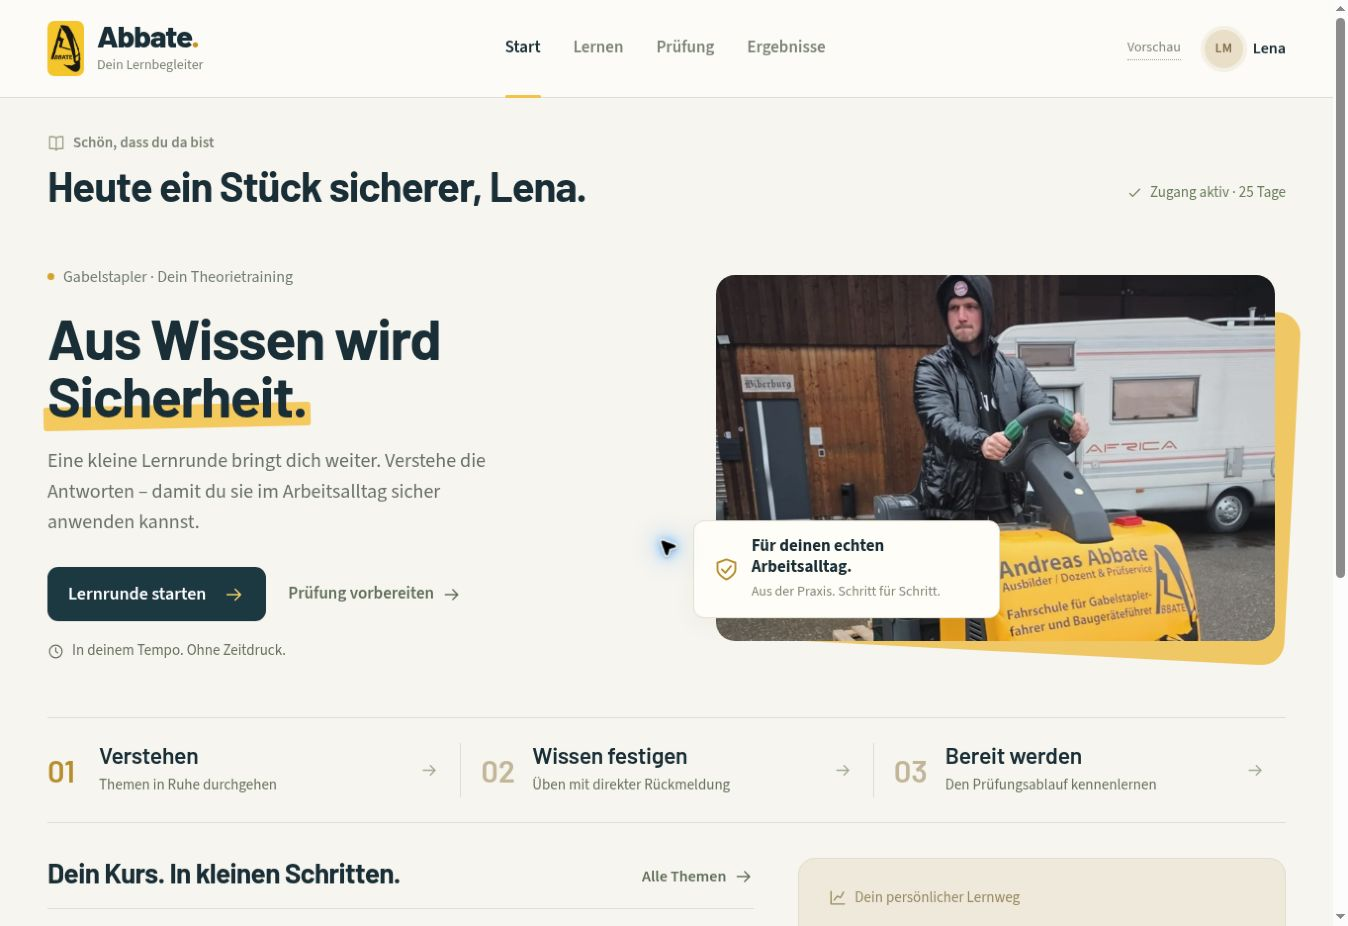
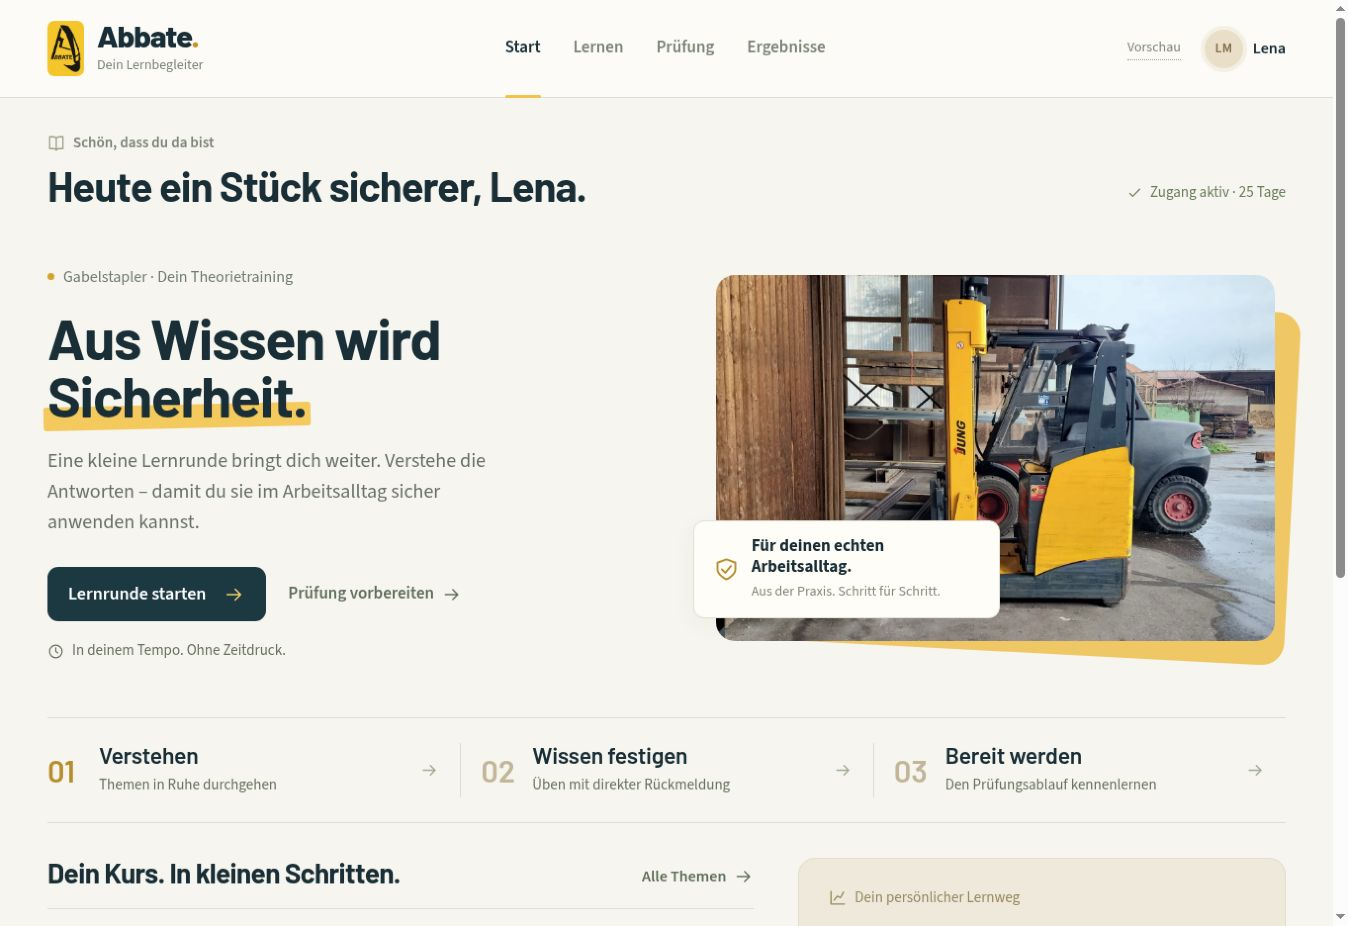
Replace hero portrait with original forklift photo from the school website

Changed region(s): [[0.5297, 0.2721, 0.9659, 0.6955], [0.4674, 0.5745, 0.5297, 0.6048]]

diff --git a/dist/app.js b/dist/app.js
@@ -65,11 +65,11 @@ function navigation() {
   $('#profile-name').textContent=student().name.split(' ')[0]; $('#avatar').textContent=initials(student().name);
 }
 function topicRows() { return TOPICS.map(t=>`<button class="topic-row" data-action="topic" data-topic="${t.id}"><span class="topic-symbol ${t.color}">${icon(t.icon)}</span><span><strong class="topic-title">${t.name}</strong><small>${t.short}</small></span>${icon('arrow')}</button>`).join(''); }
-function installStrip() { return isAppMode()?'':`<aside class="install-strip"><img src="./icon-192.png?v=5" alt="" width="47" height="47"><div><strong>Dein Lernbegleiter. Auch unterwegs.</strong><p>Einmal hinzufügen, direkt vom App-Symbol starten.</p></div><button class="secondary" data-action="install">App hinzufügen ${icon('plus')}</button></aside>`; }
+function installStrip() { return isAppMode()?'':`<aside class="install-strip"><img src="./icon-192.png?v=6" alt="" width="47" height="47"><div><strong>Dein Lernbegleiter. Auch unterwegs.</strong><p>Einmal hinzufügen, direkt vom App-Symbol starten.</p></div><button class="secondary" data-action="install">App hinzufügen ${icon('plus')}</button></aside>`; }
 function home() {
   const name=esc(student().name.split(' ')[0]), learned=mastered().length, total=QUESTIONS.length, ok=active(student());
   return heading('Schön, dass du da bist',`Heute ein Stück sicherer, ${name}.`,'',accessLine())+`
-  <section class="home-hero"><div class="hero-text"><div class="course-label"><span></span>Gabelstapler · Dein Theorietraining</div><h2>Aus Wissen wird<br><span class="marker">Sicherheit.</span></h2><p>Eine kleine Lernrunde bringt dich weiter. Verstehe die Antworten – damit du sie im Arbeitsalltag sicher anwenden kannst.</p><div class="hero-actions"><button class="primary" data-action="${ok?'start-learn':'access'}">${ok?(learned?'Weiterlernen':'Lernrunde starten'):'Zugang ansehen'} ${icon(ok?'arrow':'lock')}</button><a class="text-link" href="#pruefung">Prüfung vorbereiten ${icon('arrow')}</a></div><div class="hero-proof">${icon('clock')}In deinem Tempo. Ohne Zeitdruck.</div></div><div class="hero-photo"><img src="./assets/praxis-stapler.webp" alt="Gabelstaplerschulung am Fahrzeug mit Abbate-Beschriftung" width="900" height="1200"><div class="photo-caption">${icon('shield')}<div><strong>Für deinen echten Arbeitsalltag.</strong><small>Aus der Praxis. Schritt für Schritt.</small></div></div></div></section>
+  <section class="home-hero"><div class="hero-text"><div class="course-label"><span></span>Gabelstapler · Dein Theorietraining</div><h2>Aus Wissen wird<br><span class="marker">Sicherheit.</span></h2><p>Eine kleine Lernrunde bringt dich weiter. Verstehe die Antworten – damit du sie im Arbeitsalltag sicher anwenden kannst.</p><div class="hero-actions"><button class="primary" data-action="${ok?'start-learn':'access'}">${ok?(learned?'Weiterlernen':'Lernrunde starten'):'Zugang ansehen'} ${icon(ok?'arrow':'lock')}</button><a class="text-link" href="#pruefung">Prüfung vorbereiten ${icon('arrow')}</a></div><div class="hero-proof">${icon('clock')}In deinem Tempo. Ohne Zeitdruck.</div></div><div class="hero-photo"><img src="./assets/stapler-schulung.webp" alt="Gelbes Flurförderzeug und Gabelstapler auf dem Schulungsgelände" width="1920" height="1080"><div class="photo-caption">${icon('shield')}<div><strong>Für deinen echten Arbeitsalltag.</strong><small>Aus der Praxis. Schritt für Schritt.</small></div></div></div></section>
   <section class="learning-route" aria-label="Dein Lernweg"><a class="route-step" href="#lernen"><span class="route-number">01</span><span><strong>Verstehen</strong><small>Themen in Ruhe durchgehen</small></span>${icon('arrow')}</a><button class="route-step" data-action="start-learn"><span class="route-number">02</span><span><strong>Wissen festigen</strong><small>Üben mit direkter Rückmeldung</small></span>${icon('arrow')}</button><a class="route-step" href="#pruefung"><span class="route-number">03</span><span><strong>Bereit werden</strong><small>Den Prüfungsablauf kennenlernen</small></span>${icon('arrow')}</a></section>
   <div class="home-lower"><section><div class="section-topline"><h2>Dein Kurs. In kleinen Schritten.</h2><a class="text-link" href="#lernen">Alle Themen ${icon('arrow')}</a></div><div class="topic-list">${topicRows()}</div></section><aside class="progress-note"><div class="note-label">${icon('chart')}Dein persönlicher Lernweg</div><h3>${learned?'Das wächst mit jeder Runde.':'Du musst nicht alles auf einmal können.'}</h3><p>${learned?`${learned} von ${total} Beispielfragen hast du bereits richtig beantwortet. Wiederholen hilft, dein Wissen zu festigen.`:'Fang mit einer kurzen Runde an. Zu jeder Antwort bekommst du eine Erklärung, die dich weiterbringt.'}</p><div class="progress-meter" role="progressbar" aria-label="Richtig beantwortete Beispielfragen" aria-valuemin="0" aria-valuemax="${total}" aria-valuenow="${learned}"><span style="width:${learned/total*100}%"></span></div><div class="progress-count">${learned} von ${total} Fragen richtig beantwortet</div><a class="text-link" href="#ergebnisse">Deine bisherigen Runden ${icon('arrow')}</a></aside></div>${installStrip()}`;
 }
@@ -172,7 +172,7 @@ if('serviceWorker' in navigator&&/^https:/.test(location.protocol))navigator.ser
 route=location.hash.slice(1)||'start';if(route==='verlauf')route='ergebnisse';if(!Object.hasOwn(routeMap,route)||route==='uebung'||route==='ergebnis')route='start';save();render();
 
 function install(platform=installPlatform()){
-if(isAppMode()){modal('Du nutzt bereits die App-Ansicht',`<div class="install-app-identity"><img src="./icon-192.png?v=5" alt="Abbate App-Symbol"><div><strong>Andreas Abbate</strong><span>Lern- & Prüfungsapp</span></div><span class="app-mode-check">${icon('check')}</span></div><p>Dein Lernbereich ist bereits in einem eigenen App-Fenster geöffnet. Du kannst ihn jederzeit über sein App-Symbol starten.</p><button class="primary" data-action="close-modal">Weiterlernen ${icon('arrow')}</button>`);return;}
+if(isAppMode()){modal('Du nutzt bereits die App-Ansicht',`<div class="install-app-identity"><img src="./icon-192.png?v=6" alt="Abbate App-Symbol"><div><strong>Andreas Abbate</strong><span>Lern- & Prüfungsapp</span></div><span class="app-mode-check">${icon('check')}</span></div><p>Dein Lernbereich ist bereits in einem eigenen App-Fenster geöffnet. Du kannst ihn jederzeit über sein App-Symbol starten.</p><button class="primary" data-action="close-modal">Weiterlernen ${icon('arrow')}</button>`);return;}
 const guides={
 windows:[['App-Link in Chrome oder Edge öffnen','Öffne den Lernbereich in einem eigenen Browser-Tab.'],['Installation im Browser auswählen','Nutze das Installieren-Symbol in der Adressleiste, falls es angezeigt wird. Alternativ: In Chrome im Drei-Punkte-Menü nach „Installieren“ bzw. unter „Streamen, speichern und teilen“ suchen. In Edge findest du die Funktion meist unter „Apps“. Die Bezeichnung hängt von der Version ab.'],['Als eigene App starten','Bestätige den Installationsdialog. Danach findest du die App über die Windows-Suche bzw. das Startmenü. Wähle angebotene Optionen für Desktop-Verknüpfung oder Taskleiste. Die App kann in einem eigenen Fenster starten.']],
 mac:[['Lernbereich im Browser öffnen','Für Safari-Web-Apps wird macOS Sonoma 14 oder neuer benötigt. Alternativ ist die Installation mit Chrome oder Edge möglich.'],['Zum Dock hinzufügen','In Safari: „Ablage“ → „Zum Dock hinzufügen“. Alternativ findest du „Zum Dock hinzufügen“ im Teilen-Menü. In Chrome oder Edge nutze das Installieren-Symbol oder die App-Installation im Browsermenü.'],['Über das App-Symbol öffnen','Bestätige den Namen mit „Hinzufügen“. Safari speichert die App im Programme-Ordner deines Benutzerordners; du kannst sie über Dock oder Spotlight starten.']],
@@ -181,5 +181,5 @@ android:[['Link in Chrome öffnen','Öffne den Lernbereich in Chrome auf deinem 
 };
 if(!Object.hasOwn(guides,platform))platform=installPlatform();
 const platforms=[['windows','Windows'],['mac','Mac'],['iphone','iPhone'],['android','Android']];
-modal('Dein Lernbereich als App',`<div class="install-app-identity"><img src="./icon-192.png?v=5" alt="Abbate App-Symbol"><div><strong>Andreas Abbate</strong><span>Lern- & Prüfungsapp</span><small>Auf dem Computer und unterwegs.</small></div></div><div class="install-benefits"><span>${icon('check')} Eigenes App-Symbol</span><span>${icon('check')} Eigene App-Ansicht</span></div><p>Wähle dein Gerät. Du kannst den Lernbereich im Browser nutzen oder als Web-App hinzufügen, sofern dein Gerät und Browser die Installation unterstützen.</p><div class="modal-tabs platform-tabs" aria-label="Installationsanleitung nach Gerät">${platforms.map(([key,label])=>`<button class="${key===platform?'active':''}" data-action="install-tab" data-platform="${key}" aria-pressed="${key===platform}">${label}</button>`).join('')}</div><div class="install-steps">${guides[platform].map(([t,d],i)=>`<div class="install-step"><span>${i+1}</span><div><strong>${t}</strong><p>${d}</p></div></div>`).join('')}</div>${platform!=='iphone'&&platform===installPlatform()&&deferredInstall?'<button class="primary" data-action="native-install">Auf diesem Gerät installieren '+icon('plus')+'</button>':''}<div class="install-preview-note">${icon('lock')}<span>Frei zugängliche Vorführversion mit Beispieldaten. Änderungen bleiben nur in deinem Browser. Echte Schülerkonten, Zahlungen und zentrale Zugriffssperren sind noch nicht eingerichtet. Die Installation ist auf den jeweiligen Geräten zu prüfen.</span></div>`);
+modal('Dein Lernbereich als App',`<div class="install-app-identity"><img src="./icon-192.png?v=6" alt="Abbate App-Symbol"><div><strong>Andreas Abbate</strong><span>Lern- & Prüfungsapp</span><small>Auf dem Computer und unterwegs.</small></div></div><div class="install-benefits"><span>${icon('check')} Eigenes App-Symbol</span><span>${icon('check')} Eigene App-Ansicht</span></div><p>Wähle dein Gerät. Du kannst den Lernbereich im Browser nutzen oder als Web-App hinzufügen, sofern dein Gerät und Browser die Installation unterstützen.</p><div class="modal-tabs platform-tabs" aria-label="Installationsanleitung nach Gerät">${platforms.map(([key,label])=>`<button class="${key===platform?'active':''}" data-action="install-tab" data-platform="${key}" aria-pressed="${key===platform}">${label}</button>`).join('')}</div><div class="install-steps">${guides[platform].map(([t,d],i)=>`<div class="install-step"><span>${i+1}</span><div><strong>${t}</strong><p>${d}</p></div></div>`).join('')}</div>${platform!=='iphone'&&platform===installPlatform()&&deferredInstall?'<button class="primary" data-action="native-install">Auf diesem Gerät installieren '+icon('plus')+'</button>':''}<div class="install-preview-note">${icon('lock')}<span>Frei zugängliche Vorführversion mit Beispieldaten. Änderungen bleiben nur in deinem Browser. Echte Schülerkonten, Zahlungen und zentrale Zugriffssperren sind noch nicht eingerichtet. Die Installation ist auf den jeweiligen Geräten zu prüfen.</span></div>`);
 } 

diff --git a/dist/sw.js b/dist/sw.js
@@ -1,7 +1,7 @@
 'use strict';
 // Demo assets only. No authenticated responses or student records are cached.
-const CACHE='abbate-learning-v5';
-const ASSETS=["./styles.css?v=5","./app.js?v=5","./manifest.webmanifest?v=5","./icon-192.png?v=5","./icon-512.png?v=5","./icon-maskable.png?v=5","./apple-touch-icon.png?v=5","./favicon.png?v=5","./assets/logo-abbate.png","./assets/praxis-stapler.webp","./assets/theorie-schulung.webp","./assets/fonts/barlow-600.woff","./assets/fonts/barlow-700.woff","./assets/fonts/barlow-800.woff","./assets/fonts/source-sans-400.woff","./assets/fonts/source-sans-600.woff","./assets/fonts/source-sans-700.woff"];
+const CACHE='abbate-learning-v6';
+const ASSETS=["./styles.css?v=6","./app.js?v=6","./manifest.webmanifest?v=6","./icon-192.png?v=6","./icon-512.png?v=6","./icon-maskable.png?v=6","./apple-touch-icon.png?v=6","./favicon.png?v=6","./assets/logo-abbate.png","./assets/stapler-schulung.webp","./assets/theorie-schulung.webp","./assets/fonts/barlow-600.woff","./assets/fonts/barlow-700.woff","./assets/fonts/barlow-800.woff","./assets/fonts/source-sans-400.woff","./assets/fonts/source-sans-600.woff","./assets/fonts/source-sans-700.woff"];
 self.addEventListener('install',e=>{e.waitUntil(caches.open(CACHE).then(c=>c.addAll(ASSETS)));self.skipWaiting()});
 self.addEventListener('activate',e=>{e.waitUntil(caches.keys().then(keys=>Promise.all(keys.filter(k=>(k.startsWith('andreas-demo-shell-')||k.startsWith('abbate-learning-'))&&k!==CACHE).map(k=>caches.delete(k)))).then(()=>self.clients.claim()))});
 self.addEventListener('fetch',e=>{if(e.request.method!=='GET'||e.request.mode==='navigate')return;const url=new URL(e.request.url);if(url.origin!==self.location.origin||!ASSETS.some(a=>new URL(a,self.registration.scope).pathname===url.pathname))return;e.respondWith(fetch(e.request).catch(()=>caches.match(e.request)))});

diff --git a/dist/index.html b/dist/index.html
@@ -4,9 +4,9 @@
 <meta name="theme-color" content="#f7f5ef"><meta name="apple-mobile-web-app-capable" content="yes"><meta name="mobile-web-app-capable" content="yes"><meta name="apple-mobile-web-app-status-bar-style" content="default"><meta name="apple-mobile-web-app-title" content="Abbate Lernen">
 <meta name="description" content="Dein Lernbegleiter für die Gabelstapler-Theorie: in kleinen Schritten lernen, Wissen festigen und den Prüfungsablauf kennenlernen.">
 <title>Abbate Lernbegleiter · Gabelstapler</title>
-<link rel="manifest" href="./manifest.webmanifest?v=5"><link rel="icon" href="./favicon.png?v=5" type="image/png"><link rel="apple-touch-icon" href="./apple-touch-icon.png?v=5">
+<link rel="manifest" href="./manifest.webmanifest?v=6"><link rel="icon" href="./favicon.png?v=6" type="image/png"><link rel="apple-touch-icon" href="./apple-touch-icon.png?v=6">
 <link rel="preload" href="./assets/fonts/source-sans-400.woff" as="font" type="font/woff" crossorigin><link rel="preload" href="./assets/fonts/barlow-700.woff" as="font" type="font/woff" crossorigin>
-<link rel="stylesheet" href="./styles.css?v=5"><script defer src="./app.js?v=5"></script>
+<link rel="stylesheet" href="./styles.css?v=6"><script defer src="./app.js?v=6"></script>
 </head><body><svg class="svg-library" xmlns="http://www.w3.org/2000/svg" aria-hidden="true"><defs>
     <symbol id="i-home" viewBox="0 0 24 24"><path d="m3 10 9-7 9 7v10a1 1 0 0 1-1 1h-5v-7H9v7H4a1 1 0 0 1-1-1Z"/></symbol>
     <symbol id="i-book" viewBox="0 0 24 24"><path d="M12 5v16M3 3h5a5 5 0 0 1 4 2 5 5 0 0 1 4-2h5v16h-5a5 5 0 0 0-4 2 5 5 0 0 0-4-2H3Z"/></symbol>

diff --git a/dist/styles.css b/dist/styles.css
@@ -8,4 +8,4 @@
 @media(display-mode:standalone){.install-strip{display:none}}@media(prefers-reduced-motion:reduce){*{scroll-behavior:auto!important;animation:none!important;transition:none!important}}
 
 /* Contrast for supporting copy; body text remains 18–20 px. */
-.hero-proof,.route-step small,.topic-row small,.progress-count,.lesson-meta,.question-note,.question-meta,.admin-note,.student-info small,.form-caption,.person-option small,.install-step p,.install-preview-note{color:#68745f}.progress-note p{color:#736d56}.feedback p{color:#637b50}.feedback.again p{color:#806d40}.page-footer,.page-footer a,.page-footer button{color:#738069}.hero-photo>img{object-position:50% 18%}
+.hero-proof,.route-step small,.topic-row small,.progress-count,.lesson-meta,.question-note,.question-meta,.admin-note,.student-info small,.form-caption,.person-option small,.install-step p,.install-preview-note{color:#68745f}.progress-note p{color:#736d56}.feedback p{color:#637b50}.feedback.again p{color:#806d40}.page-footer,.page-footer a,.page-footer button{color:#738069}.hero-photo>img{object-position:50% 50%}

diff --git a/README.md b/README.md
@@ -29,6 +29,8 @@ Keine echte Authentifizierung, Datenbank, Zahlungsanbindung oder serverseitige R
 - https://gabelstaplerfahrschule-andreas.de/ — originales Logo, Markenfarben und Schulungsbilder.
 - https://publikationen.dguv.de/regelwerk/dguv-vorschriften/1123/flurfoerderzeuge — fachliche Orientierung der Beispiele an DGUV Vorschrift 68, besonders §§ 7, 9, 11, 12, 15 und 16. Keine amtlichen Prüfungsfragen übernommen.
 
+Startmotiv: Originalfoto der Kundenwebsite, `assets/img/gallery-new-02.webp`, unverändert als `dist/assets/stapler-schulung.webp` übernommen.
+
 Fontlizenzen liegen in `dist/assets/fonts/`.
 
 ## Validierung
